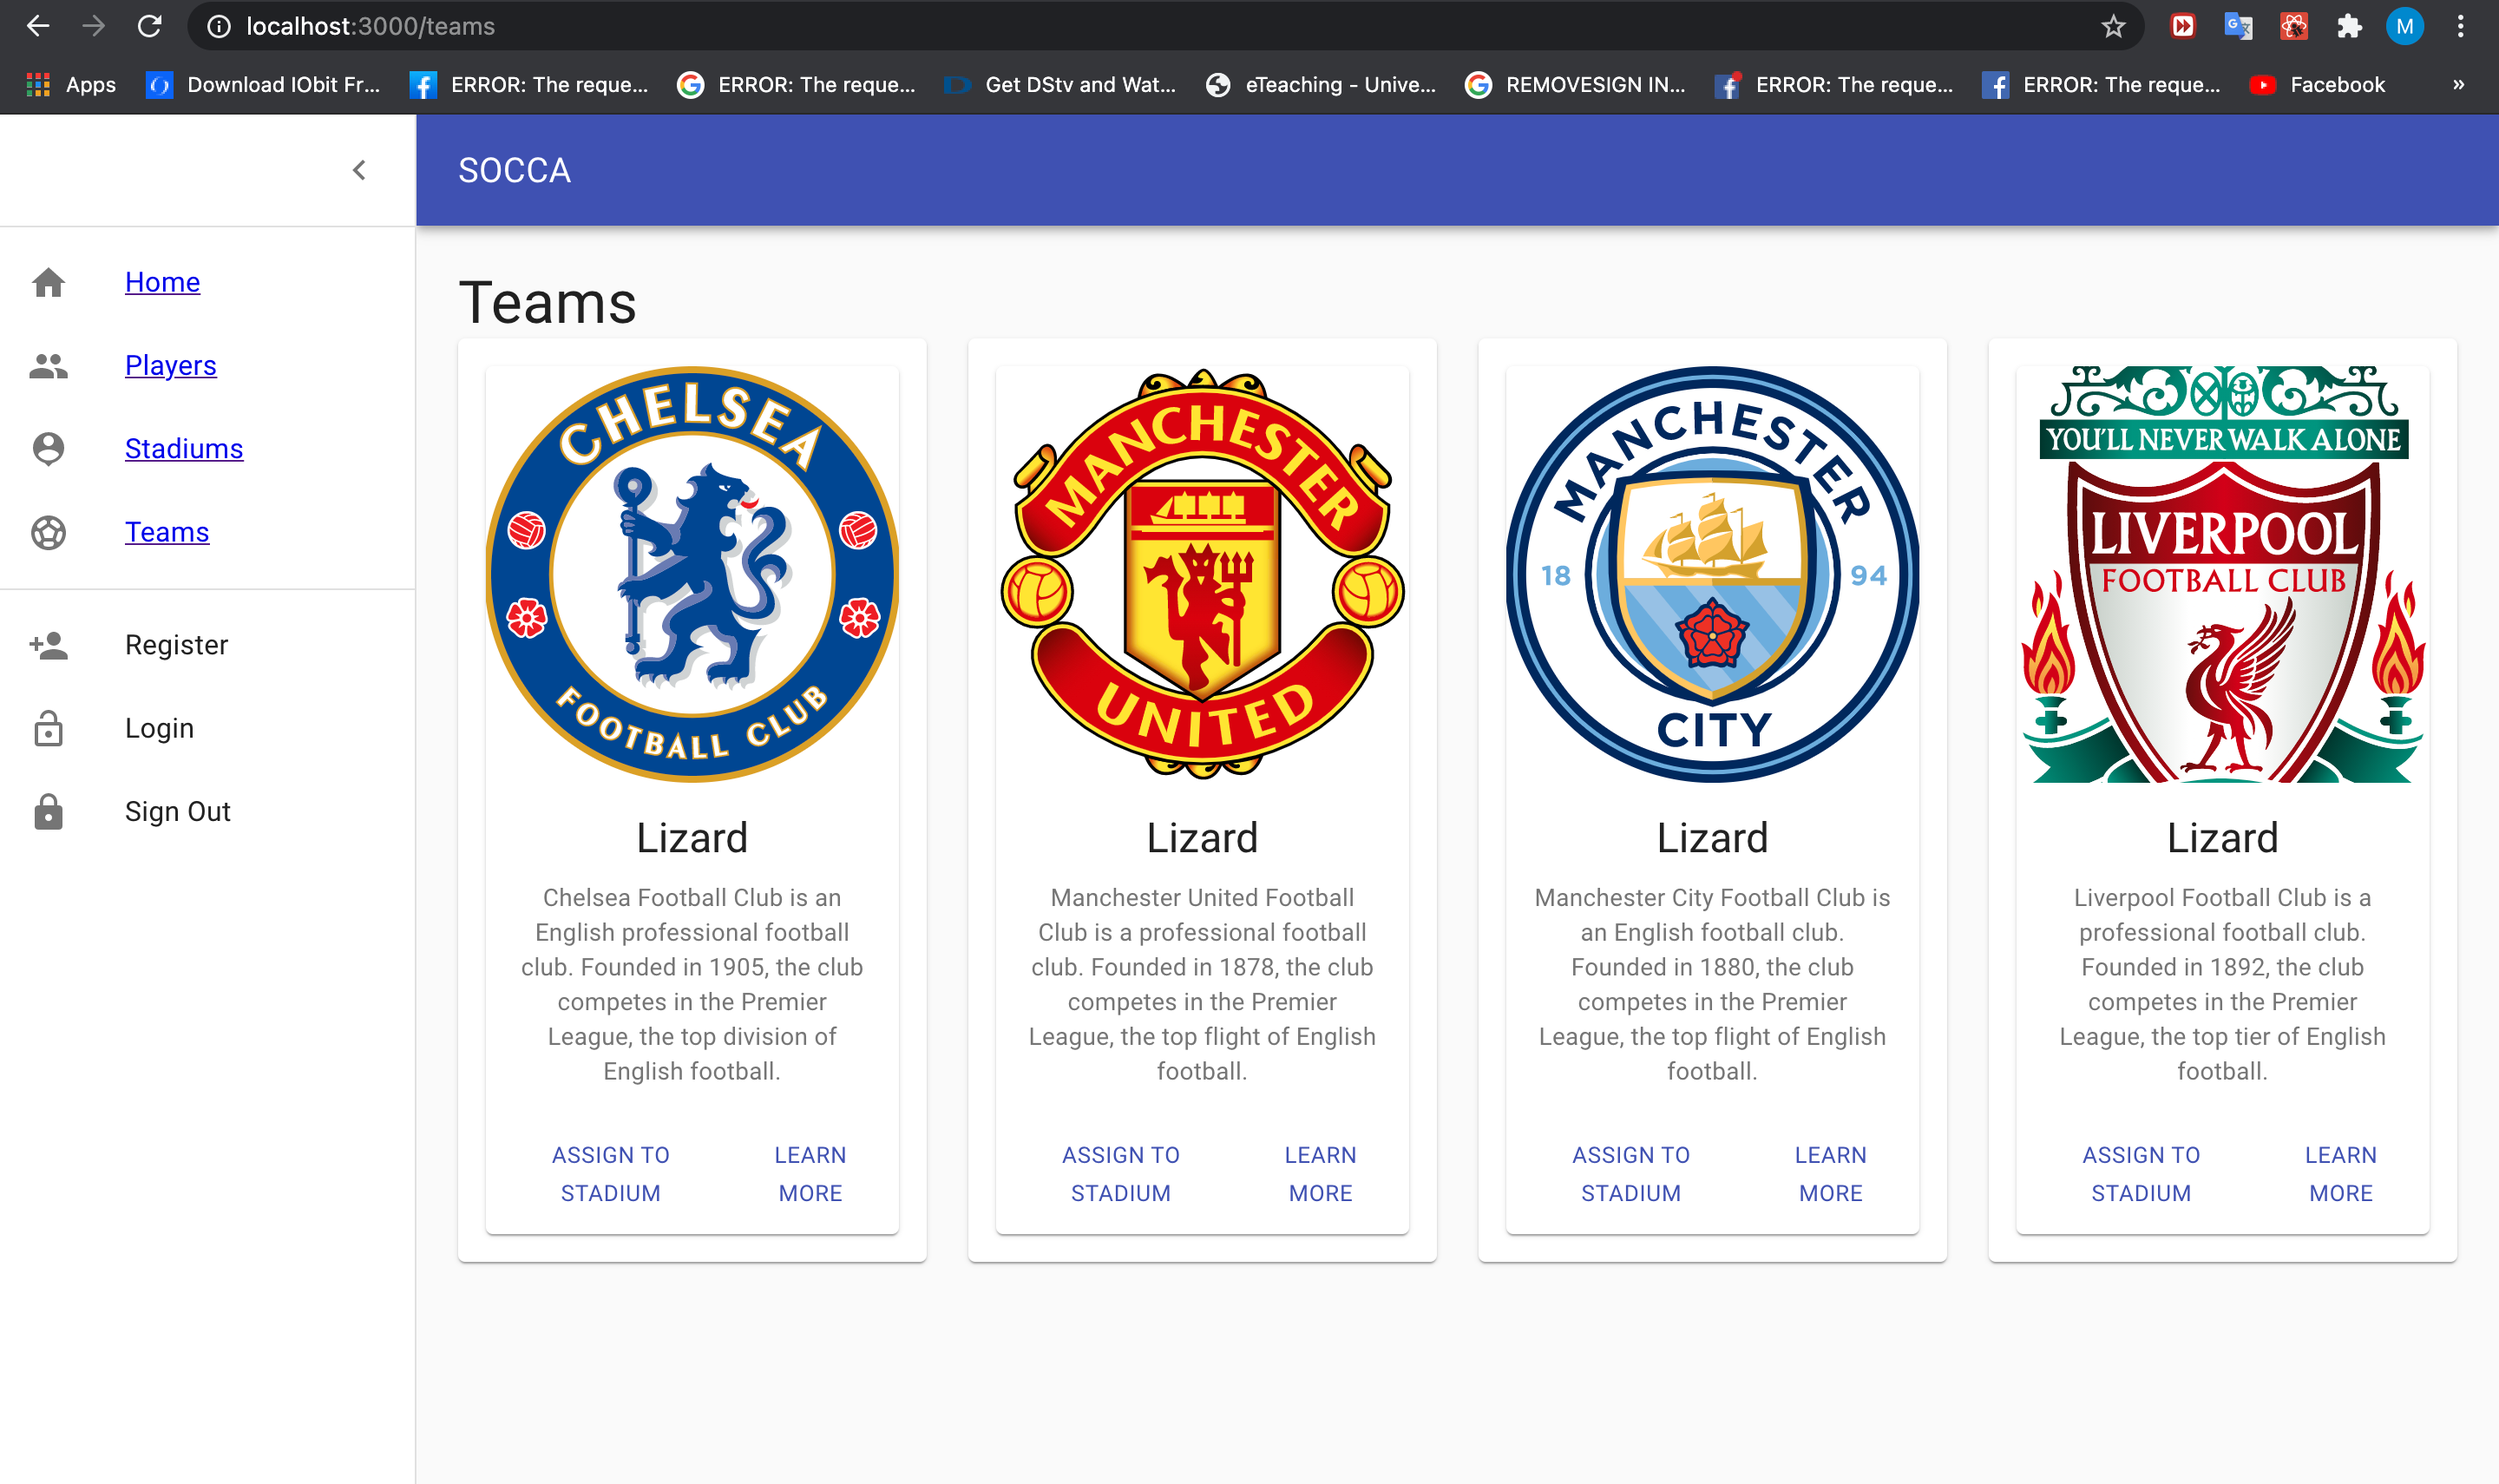
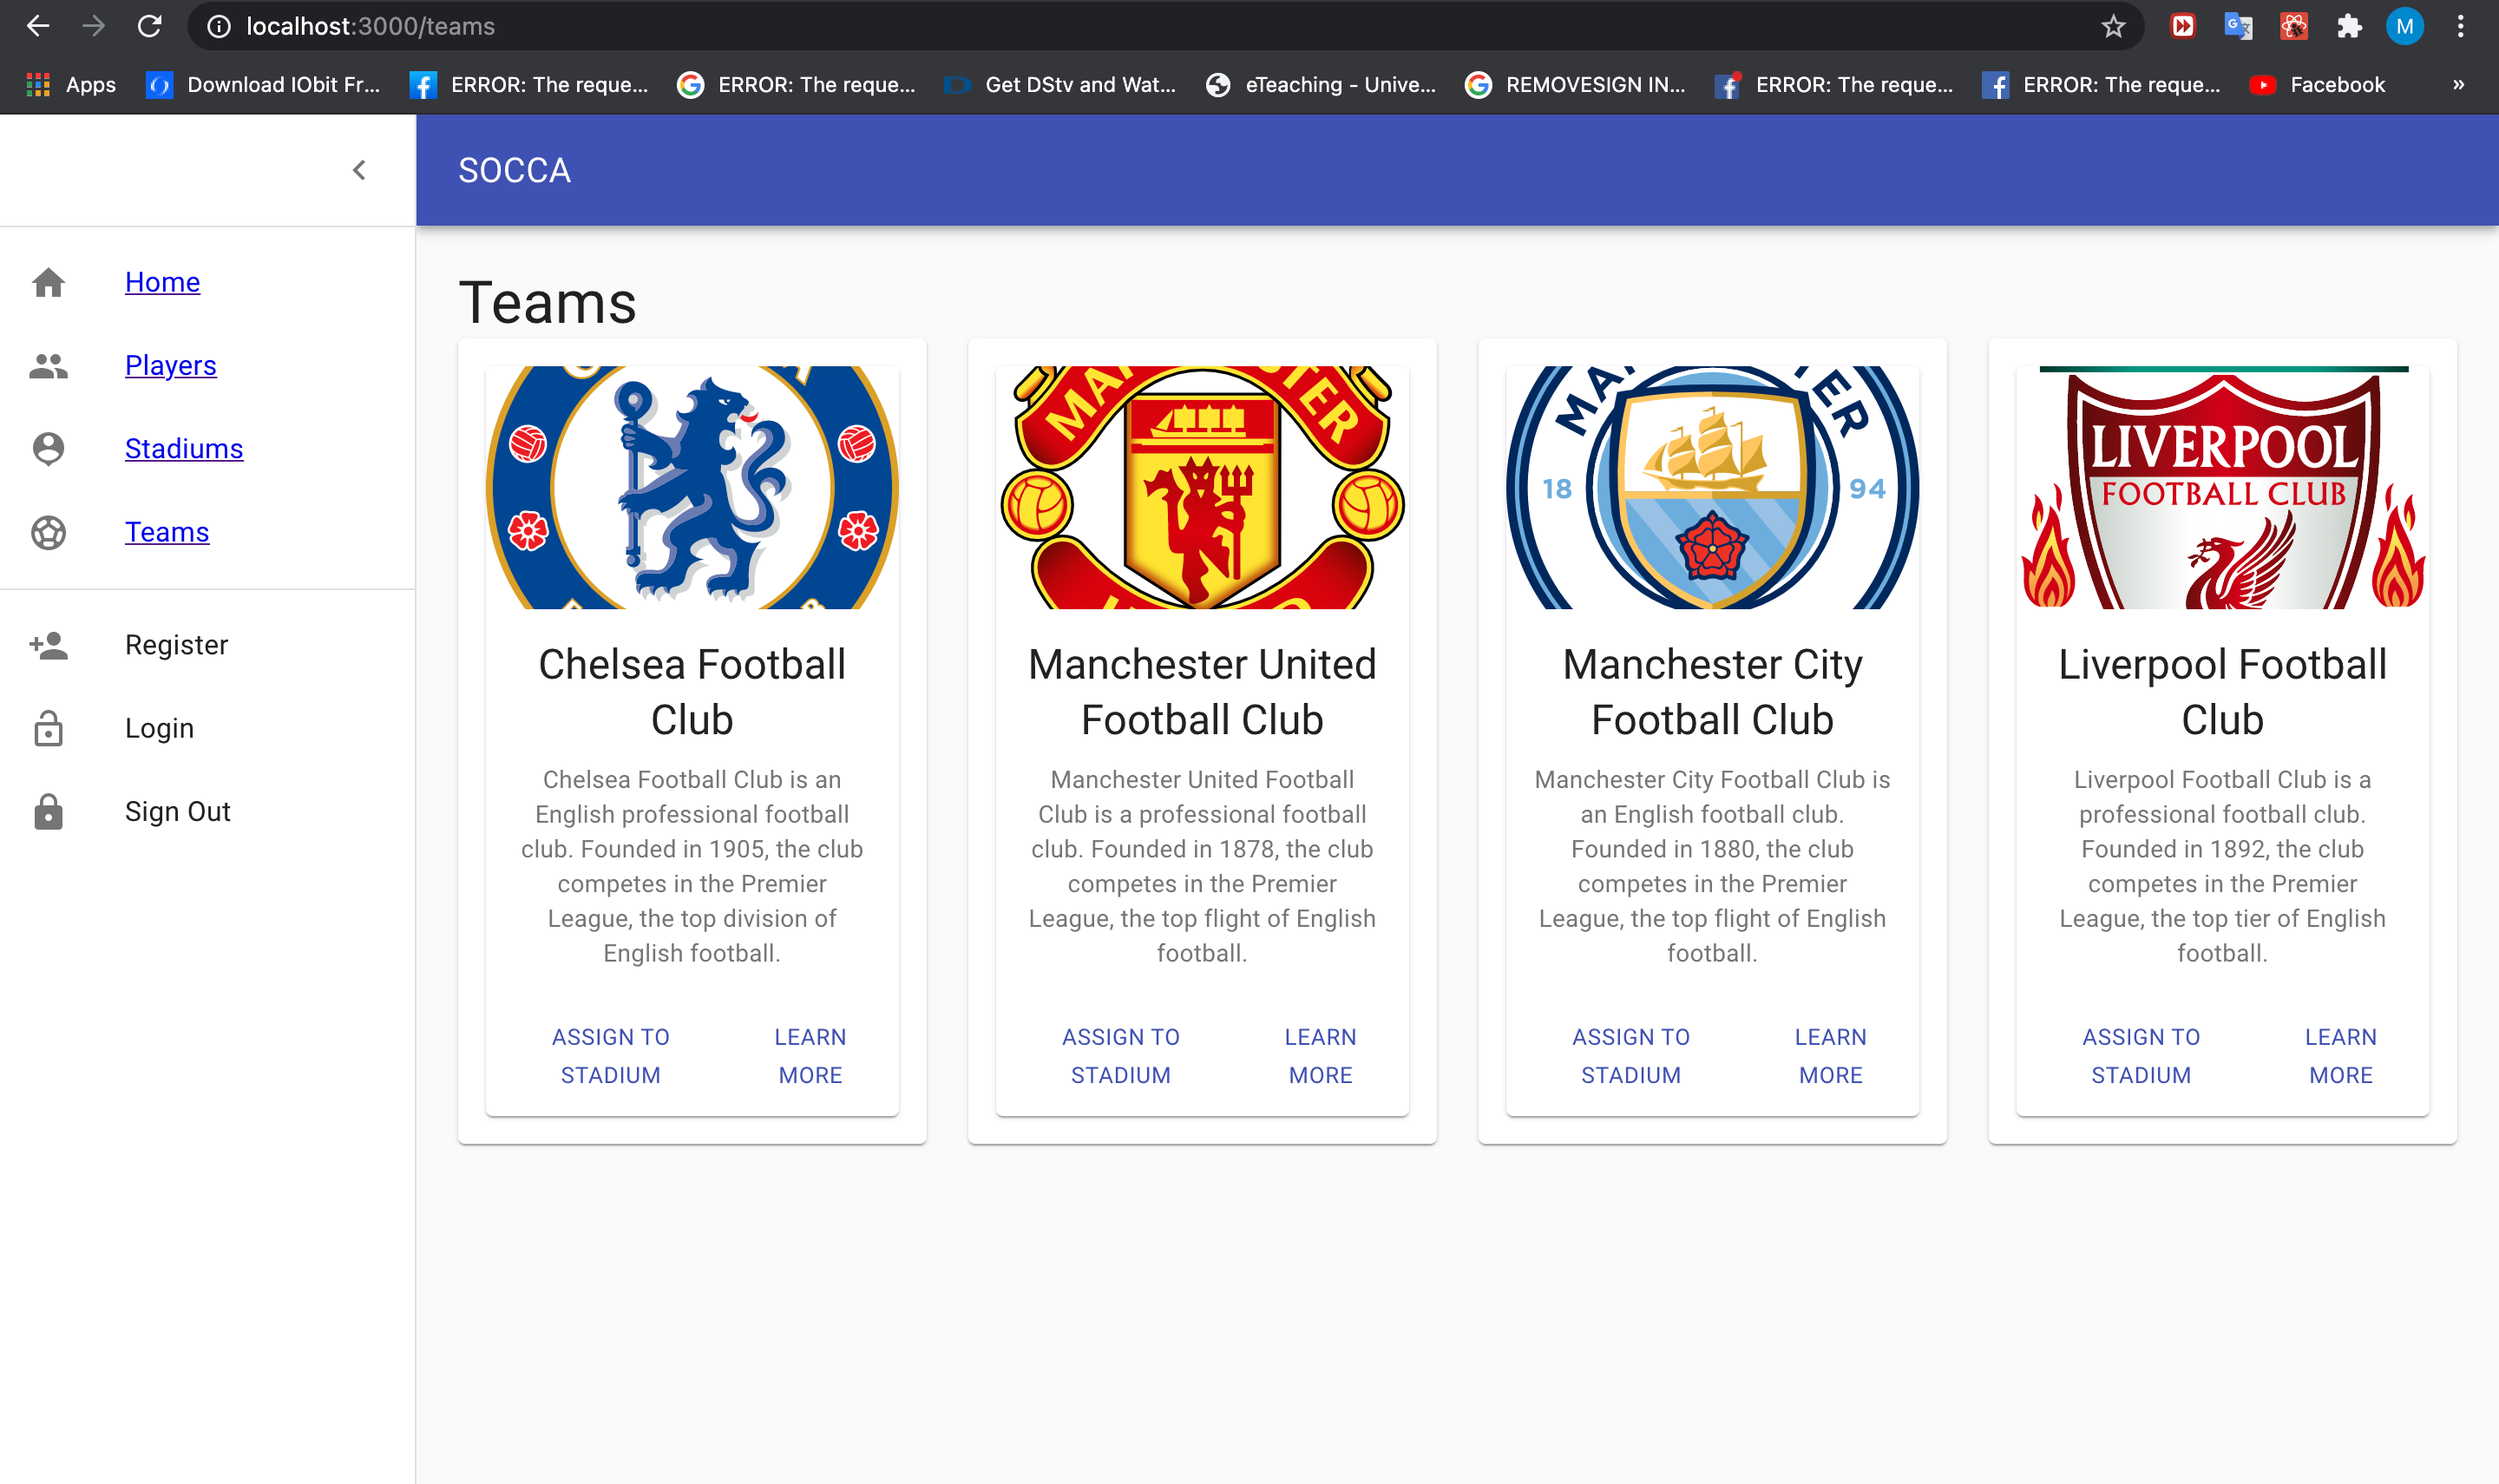
Update teams title and teams image

Changed region(s): [[0.1875, 0.248, 0.5625, 0.8368], [0.5938, 0.248, 0.7812, 0.8058], [0.8125, 0.248, 0.9688, 0.8368]]

diff --git a/src/Presentation/UI/Socca.UI.Web/ClientApp/src/pages/Teams.tsx b/src/Presentation/UI/Socca.UI.Web/ClientApp/src/pages/Teams.tsx
@@ -15,21 +15,21 @@ export default function Teams() {
   const teams =  [
     { 
       description: "Chelsea Football Club is an English professional football club. Founded in 1905, the club competes in the Premier League, the top division of English football.", 
-      title: "Chelsea FC", 
+      title: "Chelsea Football Club", 
       image: "https://upload.wikimedia.org/wikipedia/en/c/cc/Chelsea_FC.svg" 
     },
     { 
       description: "Manchester United Football Club is a professional football club. Founded in 1878, the club competes in the Premier League, the top flight of English football.", 
-      title: "Manchester United FC", 
+      title: "Manchester United Football Club", 
       image: "https://upload.wikimedia.org/wikipedia/en/7/7a/Manchester_United_FC_crest.svg" 
     },
     { 
       description: "Manchester City Football Club is an English football club. Founded in 1880, the club competes in the Premier League, the top flight of English football.", 
-      title: "Manchester City FC", 
+      title: "Manchester City Football Club", 
       image: "https://upload.wikimedia.org/wikipedia/en/e/eb/Manchester_City_FC_badge.svg" },
     { 
       description: "Liverpool Football Club is a professional football club. Founded in 1892, the club competes in the Premier League, the top tier of English football.", 
-      title: "Liverpool FC", 
+      title: "Liverpool Football Club", 
       image: "https://upload.wikimedia.org/wikipedia/en/0/0c/Liverpool_FC.svg" 
     },
   ];

diff --git a/src/Presentation/UI/Socca.UI.Web/ClientApp/src/components/TeamCard.tsx b/src/Presentation/UI/Socca.UI.Web/ClientApp/src/components/TeamCard.tsx
@@ -23,14 +23,14 @@ export default function TeamCard(props: Props) {
         <CardMedia
           component="img"
           alt={props.title}
-          height="240"
-          image={props.image}
-          //src={props.image}
+          height="140"
+          //image={props.image}
+          src={props.image}
           title={props.title}
         />
         <CardContent>
           <Typography gutterBottom variant="h5" component="h2">
-            Lizard
+            {props.title}
           </Typography>
           <Typography variant="body2" color="textSecondary" component="p">
            {

diff --git a/README.md b/README.md
@@ -36,7 +36,7 @@ Microservices architecture, event driven architecture, CQRS, event sourcing, cle
 - Add more unit tests
 - Add functional tests and integration tests
 
-# Client Demo
+# Frontend / Client App
 ![](https://github.com/mandavamunya/Socca/blob/main/image/react_client_teams.png)
 
 # Redis Cache and Kubernetes
